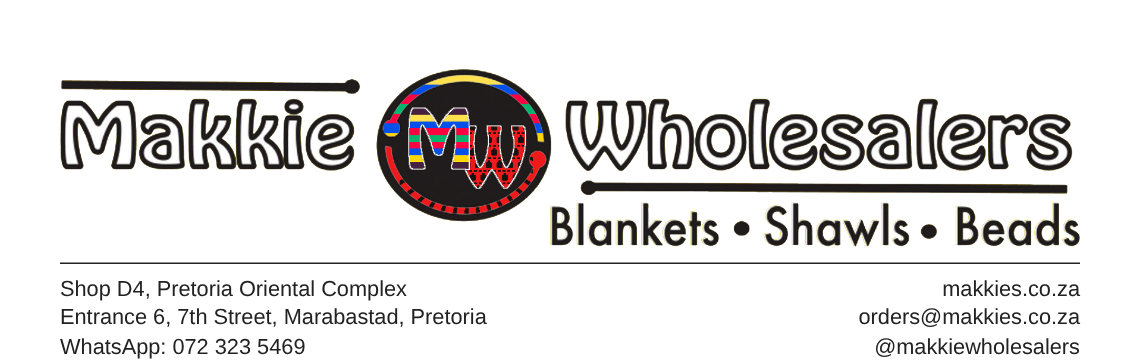
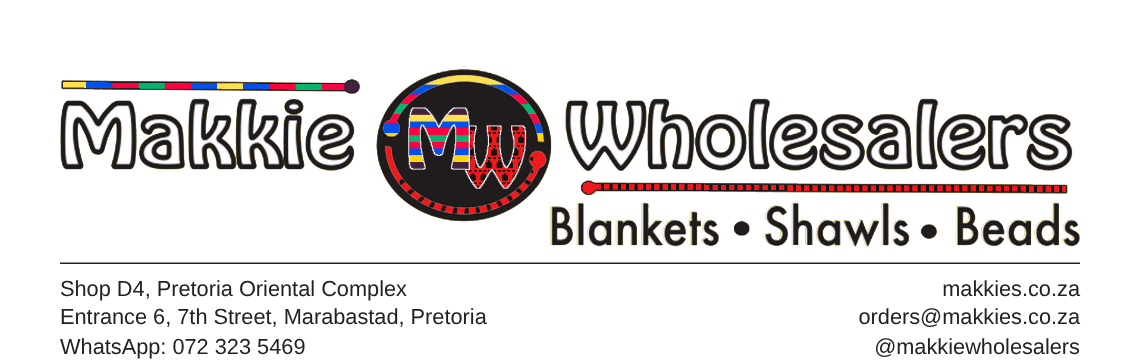
Letterhead: colour the top line in M stripes and the bottom line in W red
Claude-Session: https://claude.ai/code/session_01FrAdmZhbnvV2Pi8Ea2YxmY

Changed region(s): [[0.4912, 0.4848, 0.9518, 0.5455], [0.0307, 0.2121, 0.3377, 0.2727]]

diff --git a/marketing/letterhead/lh.html b/marketing/letterhead/lh.html
@@ -9,11 +9,11 @@ body{margin:0;background:#cfc9c0;font-family:Arial,Helvetica,sans-serif;display:
 .r{text-align:right}
 </style></head><body>
 <div class="wrap"><div class="tag">A · Original details</div><div class="page">
-<img class="logo" src="logo.png"><div class="rule"></div>
+<img class="logo" src="logo_lines.png"><div class="rule"></div>
 <div class="cols"><div>Shop No. D4<br>Pretoria Oriental Complex Marabastad, Pretoria<br>Tel: (012)323 5469</div>
 <div class="r">P.O. Box 13670<br>Laudium&nbsp; 0037<br>Fax: (012)323 7863</div></div></div></div>
 <div class="wrap"><div class="tag">B · Current details</div><div class="page">
-<img class="logo" src="logo.png"><div class="rule"></div>
+<img class="logo" src="logo_lines.png"><div class="rule"></div>
 <div class="cols"><div>Shop D4, Pretoria Oriental Complex<br>Entrance 6, 7th Street, Marabastad, Pretoria<br>WhatsApp: 072 323 5469</div>
 <div class="r">makkies.co.za<br>orders@makkies.co.za<br>@makkiewholesalers</div></div></div></div>
 </body></html>
